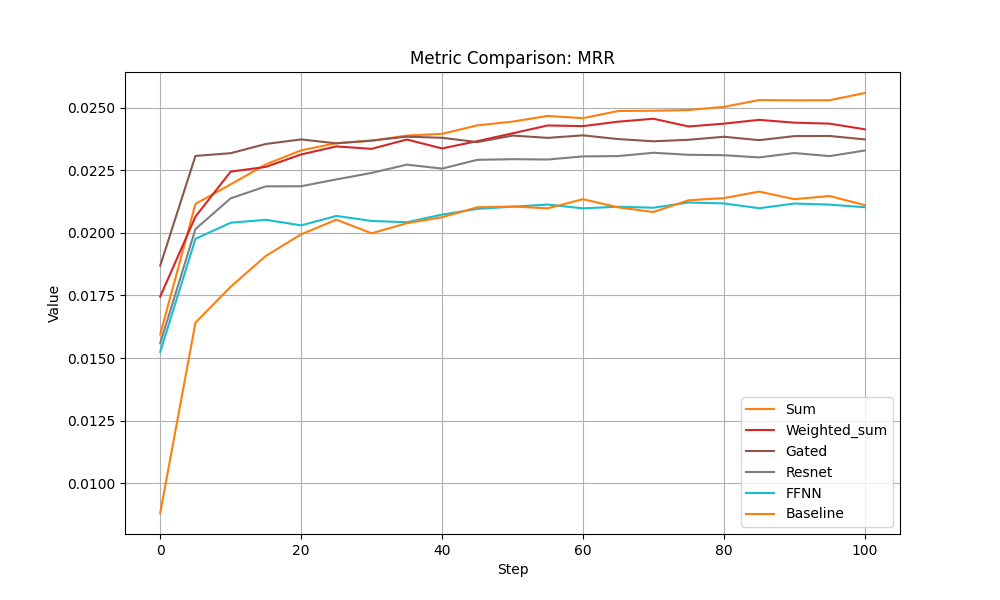
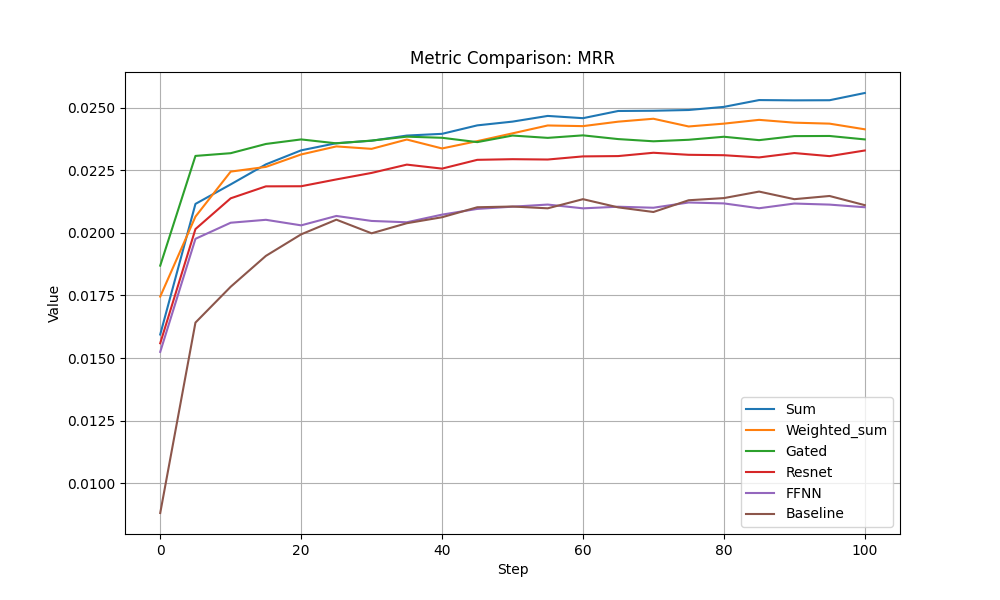
更新作图及结果

diff --git a/draw_metric_curves.py b/draw_metric_curves.py
@@ -3,6 +3,8 @@ from tensorboard.backend.event_processing.event_accumulator import EventAccumula
 import matplotlib.pyplot as plt
 import sys
 import os
+from cycler import cycler
+
 
 def load_metric_data(file_path, selected_metrics):
     """Loads metrics from a single event file."""
@@ -31,7 +33,7 @@ def load_metric_data(file_path, selected_metrics):
 
     return data_frames, last_values
 
-def draw_curves_and_results(EXP_PATHS,OUTPUT_DIR,SMOOTHING_WINDOW,selected_metrics,metrics_title_dic):
+def draw_curves_and_results(EXP_PATHS,OUTPUT_DIR,SMOOTHING_WINDOW,selected_metrics,metrics_title_dic,COLOR_LIST):
     all_exp_data = {}
     all_last_values = {}
 
@@ -60,10 +62,10 @@ def draw_curves_and_results(EXP_PATHS,OUTPUT_DIR,SMOOTHING_WINDOW,selected_metri
 
         is_loss_metric = (metric == 'losses/ar_loss')
 
-        for name, dfs in all_exp_data.items():
+        for i, (name, dfs) in enumerate(all_exp_data.items()):
             if metric in dfs and dfs[metric] is not None and not dfs[metric].empty:
                 df = dfs[metric]
-                current_color = plt.gca()._get_lines.get_next_color()
+                current_color = COLOR_LIST[i % len(COLOR_LIST)]
                 if is_loss_metric:
                     ''' #print original value
                     plt.plot(df['step'], df['value'],
@@ -101,6 +103,7 @@ def draw_curves_and_results(EXP_PATHS,OUTPUT_DIR,SMOOTHING_WINDOW,selected_metri
 
 if __name__ == "__main__":
 
+
     EXP_PATHS_512b_wd_lr_scheduled = {
         "Sum": "exps/amzn23_office-l50-wd_lrd/HSTU-b4-h4-dqk16-dv16-lsilud0.5-ad0.0_blair_DotProduct_local_text-l2-eps1e-06_ssl-t0.05-n512-b512-lr0.001-cosmin1e-05-wu100-wd0.001-2025-11-23-fe5/events.out.tfevents.1763829841.x1000c0s4b0n1.1358792.0",
         "Weighted_sum":"exps/amzn23_office-l50-wd_lrd/amzn23_office-I50_weighted_sum_wd_lr/events.out.tfevents.1763833030.I252664a0bd0060187d.1980.0",
@@ -135,5 +138,8 @@ if __name__ == "__main__":
     'eval_epoch_full/mrr': 'MRR',
     }
 
-    draw_curves_and_results(EXP_PATHS_128b_wd, OUTPUT_DIR_128b_wd, SMOOTHING_WINDOW, selected_metrics, metrics_title_dic)
-    draw_curves_and_results(EXP_PATHS_512b_wd_lr_scheduled, OUTPUT_DIR_512b_wd_lrs, SMOOTHING_WINDOW, selected_metrics, metrics_title_dic)
+    my_colors = ['#1f77b4', '#ff7f0e', '#2ca02c', '#d62728', '#9467bd', '#8c564b',
+                 '#e377c2', '#7f7f7f', '#bcbd22', '#17becf', '#4e79a7', '#f28e2b']
+
+    draw_curves_and_results(EXP_PATHS_128b_wd, OUTPUT_DIR_128b_wd, SMOOTHING_WINDOW, selected_metrics, metrics_title_dic,my_colors)
+    draw_curves_and_results(EXP_PATHS_512b_wd_lr_scheduled, OUTPUT_DIR_512b_wd_lrs, SMOOTHING_WINDOW, selected_metrics, metrics_title_dic,my_colors)
